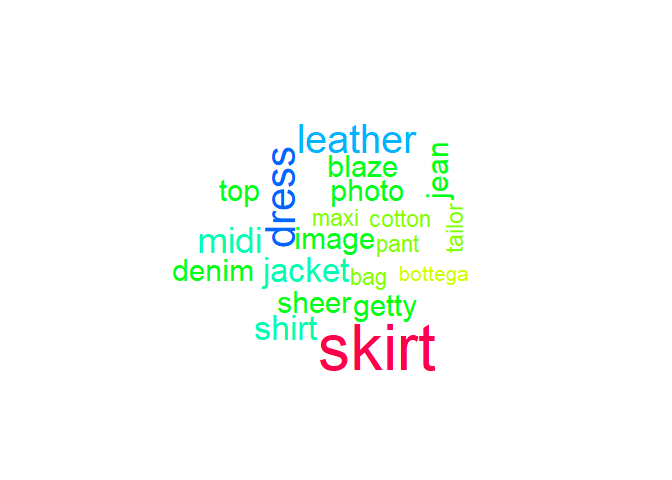
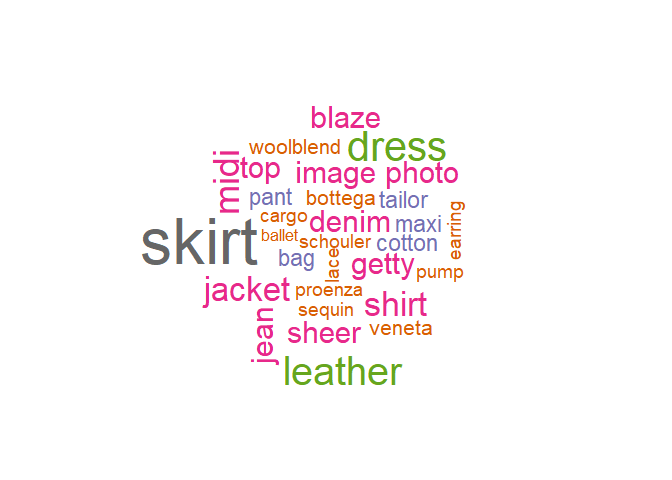
edit

Changed region(s): [[0.1875, 0.2188, 0.7188, 0.8125]]

diff --git a/Top_Fashion_Trends_2023.md b/Top_Fashion_Trends_2023.md
@@ -282,14 +282,18 @@ article:
 
     term_frequency <- tm::termFreq(articles_lemmatized)
 
-    top_20_words <- head(sort(term_frequency, decreasing = TRUE), 20)
+    top_30_words <- head(sort(term_frequency, decreasing = TRUE), 30)
 
-    top_20_words
+    top_30_words
 
-    ##   skirt   dress leather    midi  jacket   shirt   blaze   denim   getty   image 
-    ##      26      16      15      13      12      12      10      10      10      10 
-    ##    jean   photo   sheer     top     bag  cotton    maxi    pant  tailor bottega 
-    ##      10      10      10      10       7       7       7       7       7       6
+    ##     skirt     dress   leather      midi    jacket     shirt     blaze     denim 
+    ##        26        16        15        13        12        12        10        10 
+    ##     getty     image      jean     photo     sheer       top       bag    cotton 
+    ##        10        10        10        10        10        10         7         7 
+    ##      maxi      pant    tailor   bottega    veneta woolblend     cargo   earring 
+    ##         7         7         7         6         6         6         5         5 
+    ##      lace   proenza      pump  schouler    sequin    ballet 
+    ##         5         5         5         5         5         4
 
     library(wordcloud)
 
@@ -299,21 +303,9 @@ article:
 
     library(RColorBrewer)
 
-    wordcloud(names(top_20_words), top_20_words, colors = rainbow(length(top_20_words)))
+    wordcloud(names(top_30_words), top_30_words, colors = brewer.pal(8, "Dark2"))
 
 ![](Top_Fashion_Trends_2023_files/figure-markdown_strict/unnamed-chunk-16-1.png)
-
-    library(viridis)
-
-    ## Loading required package: viridisLite
-
-    # Select the top 20 words
-    top_20_words <- head(sort(term_frequency, decreasing = TRUE), 20)
-
-    # Create the word cloud with pretty colors
-    wordcloud(names(top_20_words), top_20_words, colors = viridis(20))
-
-![](Top_Fashion_Trends_2023_files/figure-markdown_strict/unnamed-chunk-16-2.png)
 
 From conducting the term frequency, we see that skirts, dresses,
 leather, denim, and sheer are the most used terms. This indicates that
